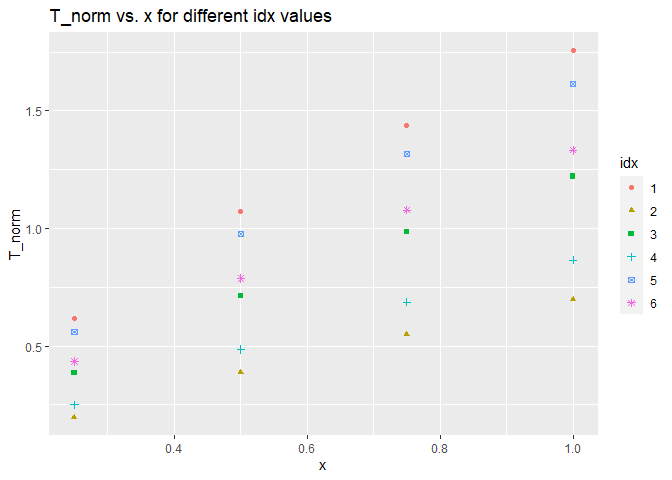
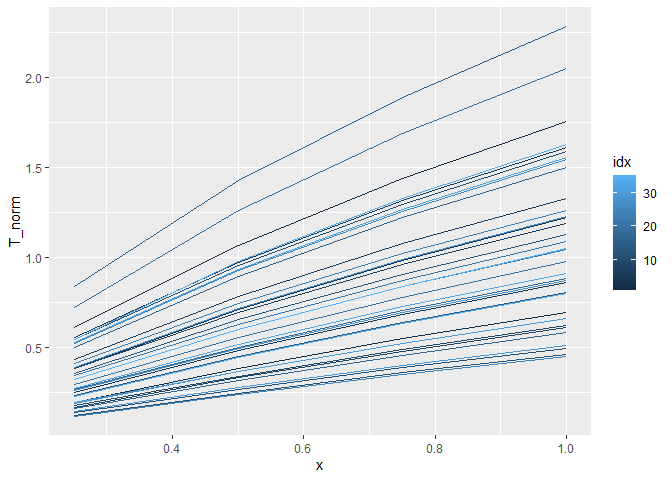
Update challenge 11.

diff --git a/challenges/c11-psaap-assignment.md b/challenges/c11-psaap-assignment.md
@@ -1,7 +1,7 @@
 Regression Case Study: PSAAP II
 ================
 Aaron Huang
-2023-4-24
+2023-5-6
 
 - <a href="#grading-rubric" id="toc-grading-rubric">Grading Rubric</a>
   - <a href="#individual" id="toc-individual">Individual</a>
@@ -318,11 +318,8 @@ of fluid, for different experimental settings (e.g. different dimensions
 ##       each identified by different values of idx
 
 df_psaap %>%
-  filter(idx <= 6) %>%
-  ggplot(aes(x = x, y = T_norm, color = factor(idx), shape = factor(idx))) +
-    geom_point() +
-    labs(title = "T_norm vs. x for different idx values",
-         x = "x", y = "T_norm", color = "idx", shape = "idx")
+  ggplot(aes(x = x, y = T_norm, group = idx, color = idx)) +
+    geom_line()
 ```
 
 ![](c11-psaap-assignment_files/figure-gfm/q2-task-1.png)<!-- -->
@@ -427,7 +424,14 @@ rsquare(fit_q4, df_validate)
 
 **Observations**:
 
-- (Use this space to document which predictors seem useful.)
+- (Use this space to document which predictors seem useful.) It seems
+  the channel dimension parameters (x, L, W) are useful predictors of
+  T_norm. The initial state of the system such as bulk velocity, inlet
+  temp, and radiation intensity (U_0, T_f, I_0) seem to be useful
+  predictors as well. Finally, the properties of the fluid, such as the
+  density, viscosity, heat capacity, particle diameter (rho_f, mu_f,
+  C_fp, d_p) also seem to be important in predicting T_norm
+
 - *Note*: You don’t just have to fiddle with `formula`! Remember that
   you have a whole toolkit of *EDA* tools The useful predictors that
   seem to be useful are either related to the dimensions of of the
@@ -661,6 +665,16 @@ rsquare(fit_q6, df_validate)
     ## [1] 0.6759518
 
 ``` r
+df_fraction_within <- df_validate %>% 
+  add_uncertainties(fit_q6, interval = "prediction", prefix = "pi") %>% 
+  summarize(num_within = T_norm >= pi_lwr & T_norm <= pi_upr) %>%
+  sum() / nrow(df_validate)
+df_fraction_within
+```
+
+    ## [1] 0.9833333
+
+``` r
 pred <- predict(fit_q6, newdata = df_design, interval = "prediction", level = pr_level)
 pred
 ```
@@ -680,7 +694,9 @@ pred
     of possible T_norm values.
 - What fraction of validation cases lie within the interval you predict?
   How does this compare with `pr_level`?
-  - (Your response here)
+  - The fraction of validation cases that lie within the interval the
+    model predicted was 0.983. This is higher than the specified
+    pr_level of 0.8.
 - What interval for `T_norm` would you recommend the design team to plan
   around?
   - The T_norm ranges from 1.46 and 2.30.
